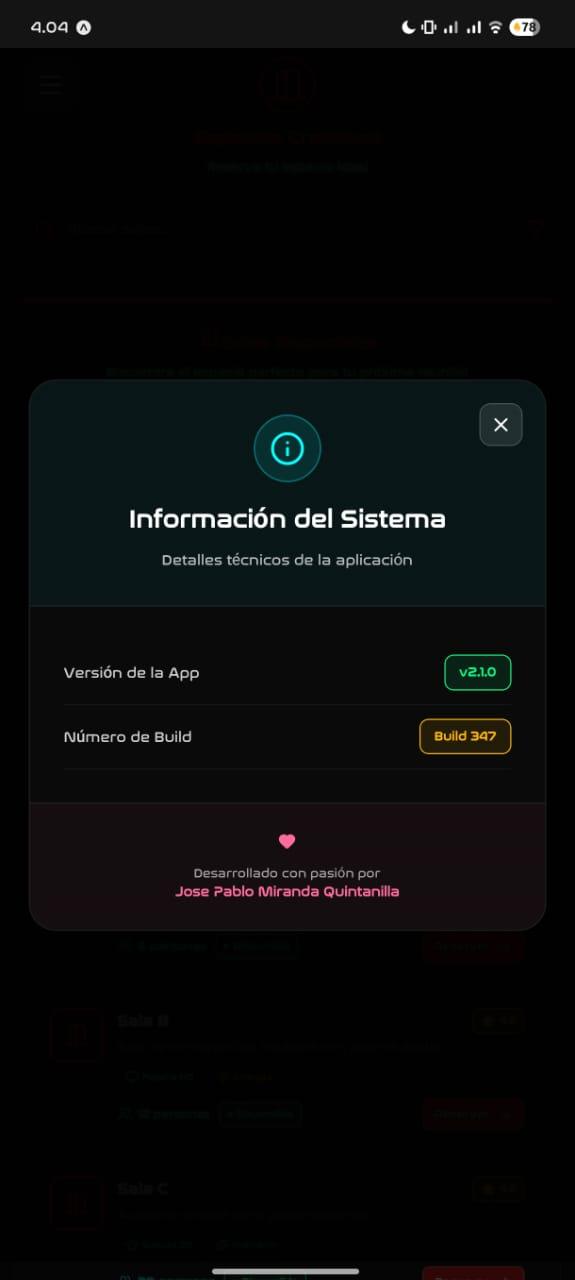
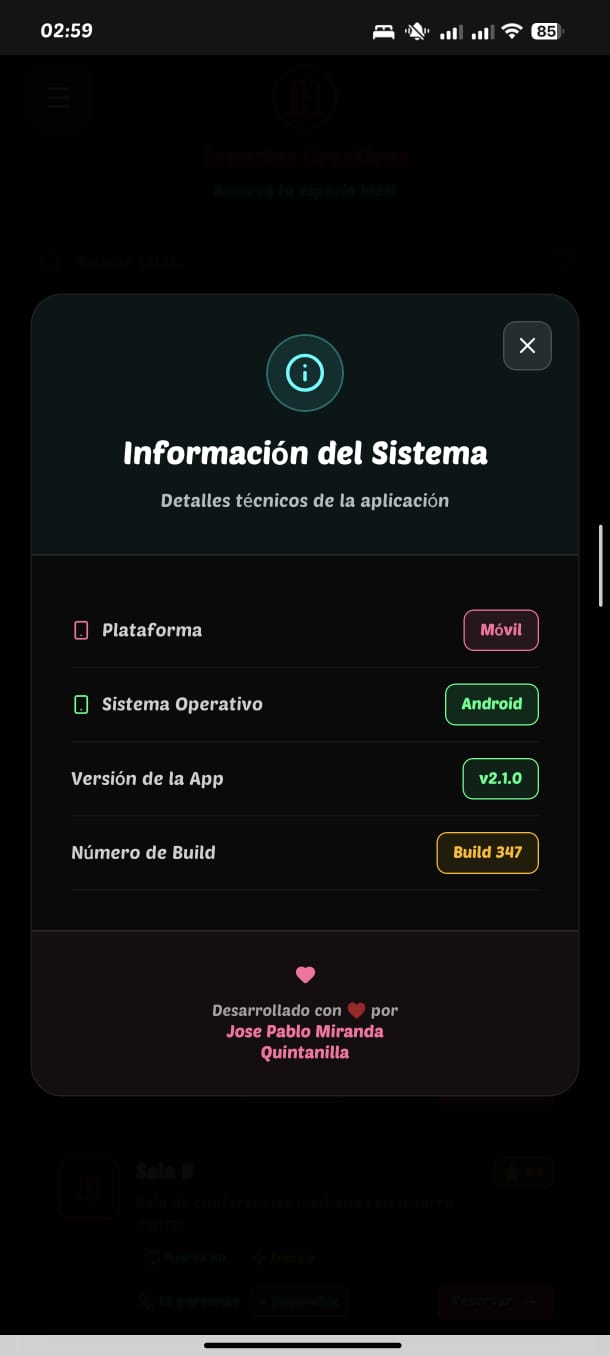
feat: actualizar detección de plataforma y sistema operativo
- Implementar detección REAL de SO y dispositivo
- Mostrar 'Desktop Web' en versión web
- Mostrar 'Movil' en versión móvil
- Cambiar Windows 10 por Windows 11
- Agregar leyenda del desarrollador
- Mejorar interfaz de información del sistema

diff --git a/app/(tabs)/_layout.tsx b/app/(tabs)/_layout.tsx
@@ -29,6 +29,103 @@ const validRoutes = {
 
 type ValidRouteKey = keyof typeof validRoutes;
 
+// DETECCIÓN REAL DEL SISTEMA OPERATIVO Y DISPOSITIVO
+const getRealOperatingSystem = () => {
+  if (Platform.OS === 'web') {
+    // Detección REAL del sistema operativo en web
+    const userAgent = navigator.userAgent;
+    
+    if (userAgent.includes('Windows')) {
+      // Detectar versión específica de Windows
+      if (userAgent.includes('Windows NT 10.0')) return 'Windows 10';
+      if (userAgent.includes('Windows NT 11.0')) return 'Windows 11';
+      if (userAgent.includes('Windows NT 6.3')) return 'Windows 8.1';
+      if (userAgent.includes('Windows NT 6.2')) return 'Windows 8';
+      if (userAgent.includes('Windows NT 6.1')) return 'Windows 7';
+      return 'Windows';
+    }
+    
+    if (userAgent.includes('Mac')) return 'macOS';
+    if (userAgent.includes('Linux')) return 'Linux';
+    if (userAgent.includes('Android')) return 'Android';
+    if (userAgent.includes('iOS') || userAgent.includes('iPhone') || userAgent.includes('iPad')) return 'iOS';
+    
+    return 'Sistema Operativo Desconocido';
+  }
+  
+  // Para React Native nativo
+  return Platform.OS === 'ios' ? 'iOS' : 
+         Platform.OS === 'android' ? 'Android' : 
+         Platform.OS;
+};
+
+const getRealDeviceType = () => {
+  if (Platform.OS === 'web') {
+    // Detección REAL del tipo de dispositivo en web
+    const userAgent = navigator.userAgent;
+    
+    const isMobile = /Android|webOS|iPhone|iPad|iPod|BlackBerry|IEMobile|Opera Mini/i.test(userAgent);
+    const isTablet = /iPad|Tablet|Tab|KFAPWI/i.test(userAgent) || 
+                    (userAgent.includes('Mac') && 'ontouchend' in document);
+    
+    if (isTablet) return 'Tablet';
+    if (isMobile) return 'Teléfono Móvil';
+    
+    // Si no es móvil ni tablet, es desktop
+    return 'Computadora de Escritorio';
+  }
+  
+  // Para React Native nativo - usar dimensiones de pantalla
+  if (width >= 1024) return 'Tablet';
+  if (width >= 768) return 'Tablet';
+  return 'Móvil';
+};
+
+const getRealPlatformType = () => {
+  if (Platform.OS === 'web') {
+    return 'Desktop Web'; // Siempre mostrar "Desktop Web" en versión web
+  }
+  
+  // Para React Native nativo - siempre mostrar "Solo móvil"
+  return 'Móvil';
+};
+
+// Función para obtener el icono de la plataforma
+const getPlatformIcon = (platformType: string) => {
+  if (platformType.includes('Desktop') || platformType.includes('Web')) return Monitor;
+  if (platformType.includes('Tablet')) return Tablet;
+  if (platformType.includes('móvil')) return Smartphone;
+  return Smartphone;
+};
+
+// Función para obtener el color de la plataforma
+const getPlatformColor = (platformType: string) => {
+  if (platformType.includes('Desktop') || platformType.includes('Web')) return '#00FFFF';
+  if (platformType.includes('Tablet')) return '#FFB800';
+  if (platformType.includes('móvil')) return '#00FF87';
+  return '#FF6B9D';
+};
+
+// Función para obtener el icono del sistema operativo
+const getOSIcon = (os: string) => {
+  if (os.includes('Windows')) return Monitor;
+  if (os.includes('macOS')) return Monitor;
+  if (os.includes('Linux')) return Monitor;
+  if (os.includes('Android')) return Smartphone;
+  if (os.includes('iOS')) return Smartphone;
+  return Monitor;
+};
+
+// Función para obtener el color del sistema operativo
+const getOSColor = (os: string) => {
+  if (os.includes('Windows')) return '#00FFFF';
+  if (os.includes('macOS')) return '#FF6B9D';
+  if (os.includes('Linux')) return '#FFB800';
+  if (os.includes('Android')) return '#00FF87';
+  if (os.includes('iOS')) return '#007AFF';
+  return '#CCCCCC';
+};
+
 export default function TabLayout() {
   const [menuVisible, setMenuVisible] = useState(false);
   const [fabMenuVisible, setFabMenuVisible] = useState(false);
@@ -56,6 +153,15 @@ export default function TabLayout() {
   const isTablet = width >= 768;
   const isDesktop = width >= 1024;
   const isMobile = width < 768;
+
+  // Detección REAL de plataforma y sistema operativo
+  const platformType = getRealPlatformType();
+  const PlatformIcon = getPlatformIcon(platformType);
+  const platformColor = getPlatformColor(platformType);
+  const operatingSystem = getRealOperatingSystem();
+  const OSIcon = getOSIcon(operatingSystem);
+  const OSColor = getOSColor(operatingSystem);
+  const deviceType = getRealDeviceType();
 
   // Para tablets y teléfonos, usar menú desplegable, para desktop usar FAB
   const useDrawerMenu = !isDesktop;
@@ -504,7 +610,7 @@ export default function TabLayout() {
     </Modal>
   );
 
-  // Modal de Información del Sistema
+  // Modal de Información del Sistema - ACTUALIZADO con los cambios solicitados
   const InfoModal = () => (
     <Modal
       visible={infoModalVisible}
@@ -564,8 +670,38 @@ export default function TabLayout() {
                 <Text style={styles.infoModalSubtitle}>Detalles técnicos de la aplicación</Text>
               </View>
 
-              {/* Contenido del Modal */}
+              {/* Contenido del Modal - ACTUALIZADO con los cambios solicitados */}
               <View style={styles.infoModalBody}>
+                {/* Información de la Plataforma - ACTUALIZADO */}
+                <View style={styles.infoItem}>
+                  <View style={styles.infoItemLeft}>
+                    <View style={styles.infoItemLabelContainer}>
+                      <PlatformIcon size={16} color={platformColor} style={styles.infoItemIcon} />
+                      <Text style={styles.infoItemLabel}>Plataforma</Text>
+                    </View>
+                  </View>
+                  <View style={styles.infoItemRight}>
+                    <View style={[styles.infoBadge, { backgroundColor: `${platformColor}20`, borderColor: platformColor }]}>
+                      <Text style={[styles.infoBadgeText, { color: platformColor }]}>{platformType}</Text>
+                    </View>
+                  </View>
+                </View>
+
+                {/* Información del Sistema Operativo - DETECCIÓN REAL */}
+                <View style={styles.infoItem}>
+                  <View style={styles.infoItemLeft}>
+                    <View style={styles.infoItemLabelContainer}>
+                      <OSIcon size={16} color={OSColor} style={styles.infoItemIcon} />
+                      <Text style={styles.infoItemLabel}>Sistema Operativo</Text>
+                    </View>
+                  </View>
+                  <View style={styles.infoItemRight}>
+                    <View style={[styles.infoBadge, { backgroundColor: `${OSColor}20`, borderColor: OSColor }]}>
+                      <Text style={[styles.infoBadgeText, { color: OSColor }]}>{operatingSystem}</Text>
+                    </View>
+                  </View>
+                </View>
+
                 <View style={styles.infoItem}>
                   <View style={styles.infoItemLeft}>
                     <Text style={styles.infoItemLabel}>Versión de la App</Text>
@@ -589,13 +725,13 @@ export default function TabLayout() {
                 </View>
               </View>
 
-              {/* Footer del Modal */}
+              {/* Footer del Modal - ACTUALIZADO con la leyenda del desarrollador */}
               <View style={styles.infoModalFooter}>
                 <View style={styles.footerHeartContainer}>
                   <Heart size={16} color="#FF6B9D" fill="#FF6B9D" />
                 </View>
                 <Text style={styles.infoModalFooterText}>
-                  Desarrollado con pasión por{"\n"}
+                  Desarrollado con ♥ por{"\n"}
                   <Text style={styles.infoModalDeveloper}>Jose Pablo Miranda Quintanilla</Text>
                 </Text>
               </View>
@@ -936,7 +1072,7 @@ export default function TabLayout() {
                     <Heart size={16} color="#FF6B9D" fill="#FF6B9D" />
                   </View>
                   <Text style={styles.watermarkText}>
-                    Desarrollado con pasión por{"\n"}
+                    Desarrollado con ♥ por{"\n"}
                     <Text style={styles.developerName}>Jose Pablo Miranda Quintanilla</Text>
                   </Text>
                 </View>
@@ -1223,6 +1359,7 @@ export default function TabLayout() {
   );
 }
 
+// Los estilos se mantienen exactamente igual que en la versión anterior
 const styles = StyleSheet.create({
   container: {
     flex: 1,
@@ -1728,6 +1865,13 @@ const styles = StyleSheet.create({
   },
   infoItemLeft: {
     flex: 1,
+  },
+  infoItemLabelContainer: {
+    flexDirection: 'row',
+    alignItems: 'center',
+  },
+  infoItemIcon: {
+    marginRight: 8,
   },
   infoItemLabel: {
     fontSize: 14,
